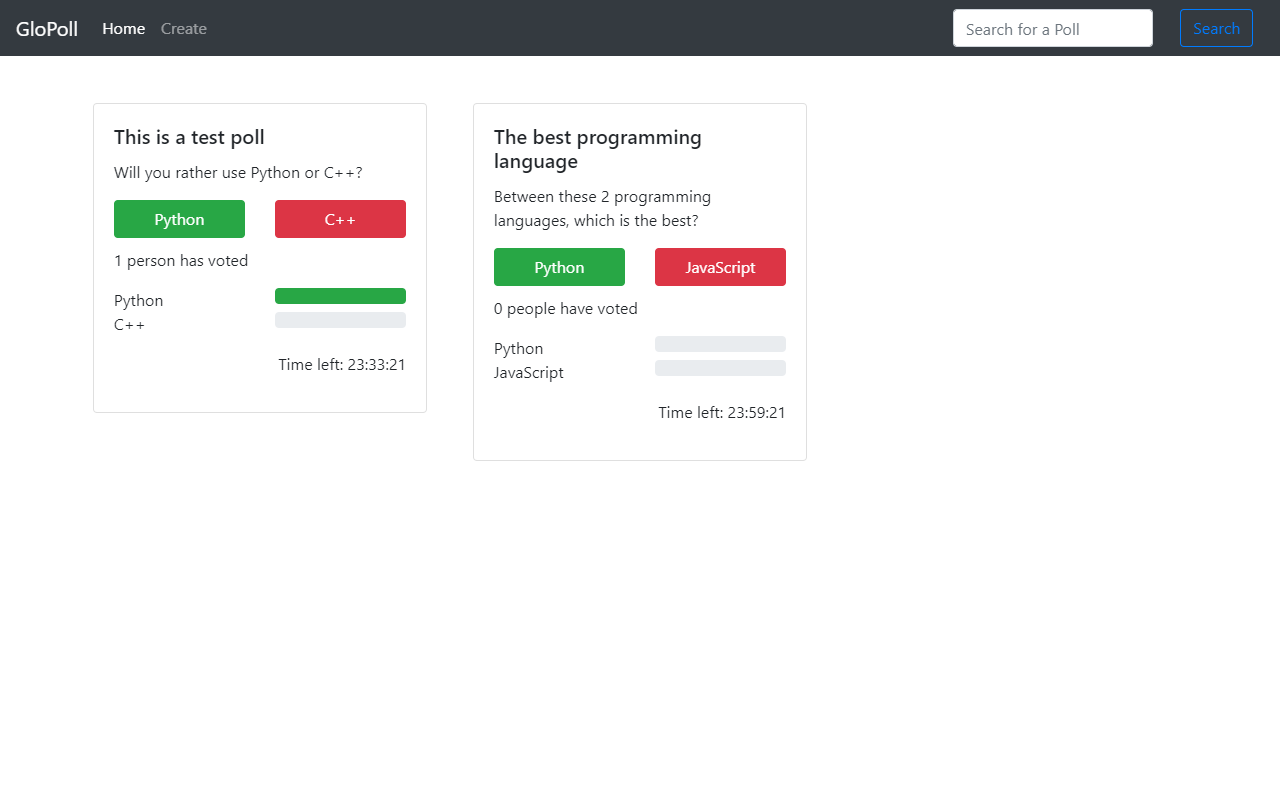
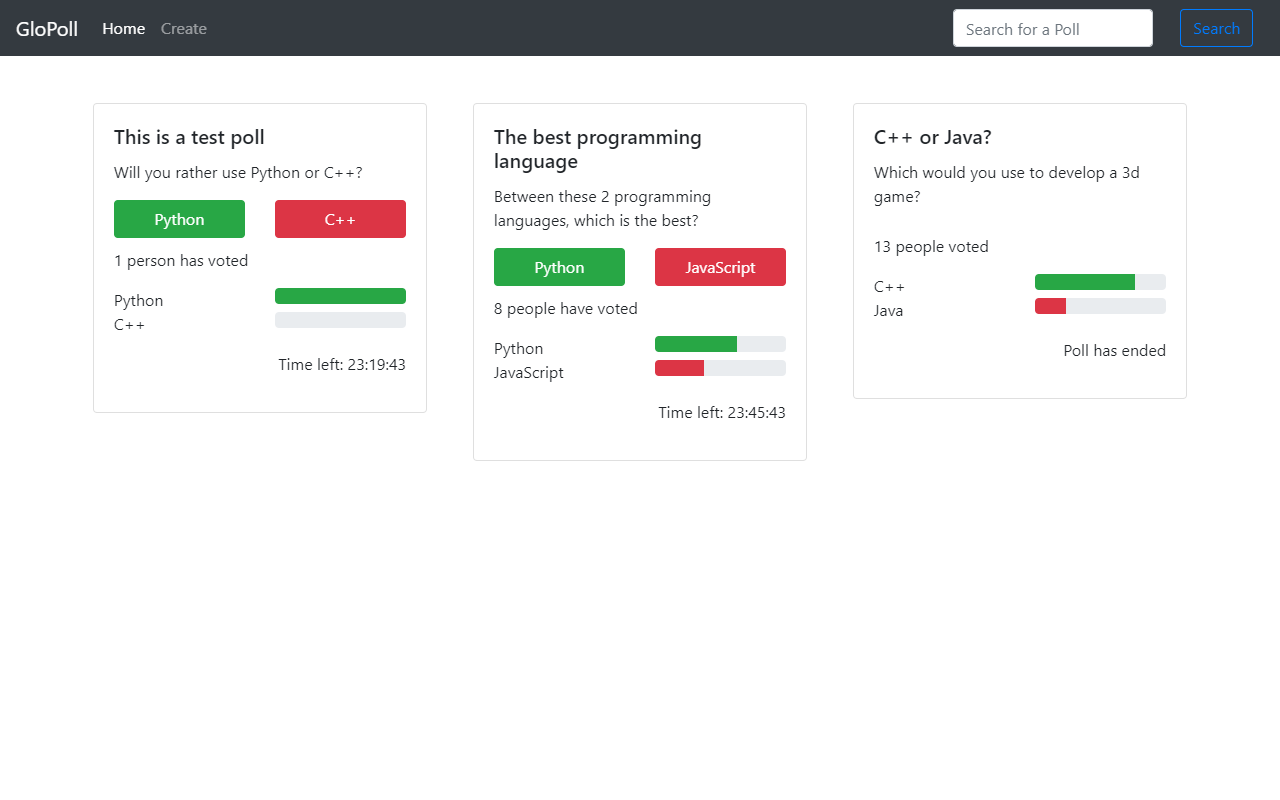
replaced image 1

diff --git a/glopoll/src/UIComponents/Countdown.js b/glopoll/src/UIComponents/Countdown.js
@@ -20,7 +20,7 @@ export default class Countdown extends React.Component{
             const minutes = duration._data.minutes
             const seconds = duration._data.seconds
 
-            if (Math.sign(parseInt(hours, 10)) == -1){
+            if (Math.sign(parseInt(seconds, 10)) == -1){
                 this.props.killPoll(this.props.poll.uid)
             }
 
